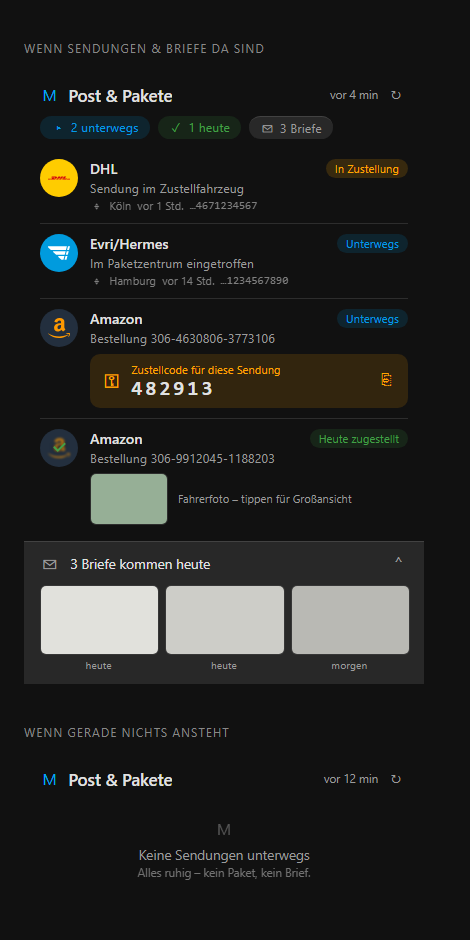
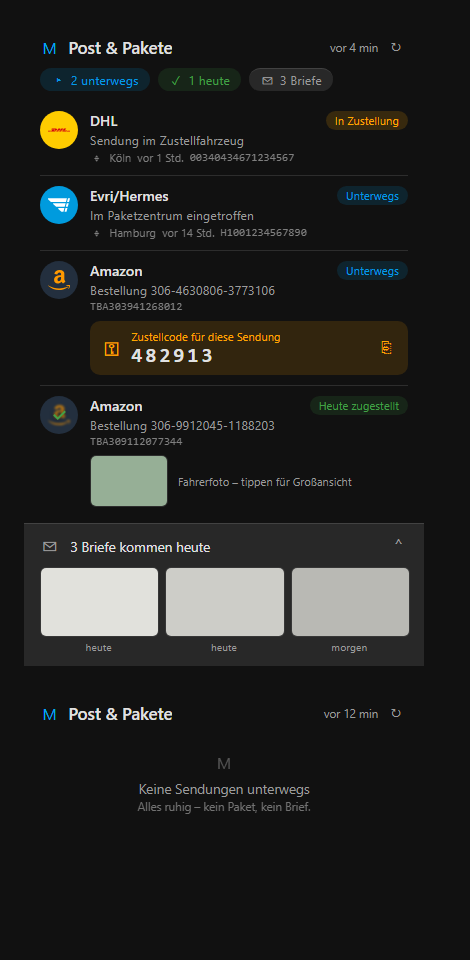
feat: full tracking numbers + Amazon TBA numbers on order rows
- carrier rows show the complete tracking number instead of a truncated
  tail (meta line wraps when needed)
- Amazon rows (in transit and delivered) show the TBA tracking number
  from the integration's new order->tracking attribute map
- README preview image refreshed, harness state labels removed

diff --git a/dist/Home-Assistant-Mail-And-Packages-Custom-Card.js b/dist/Home-Assistant-Mail-And-Packages-Custom-Card.js
@@ -325,6 +325,10 @@ class MailAndPackagesCard extends LitElement {
     const otp = this._st(ents.otp);
     const otpDetails = (otp && otp.attributes.details) || [];
     const otpCodes = (otp && otp.attributes.code) || [];
+    const trackingMap = {
+      ...((deliveredState && deliveredState.attributes.tracking) || {}),
+      ...((amazon && amazon.attributes.tracking) || {}),
+    };
     let orders = (amazon && amazon.attributes.order) || [];
     if (!Array.isArray(orders)) orders = [orders].filter(Boolean);
     const matchedCodes = new Set();
@@ -341,7 +345,7 @@ class MailAndPackagesCard extends LitElement {
         event: `${t.order} ${order}`,
         location: "",
         time: "",
-        number: null,
+        number: trackingMap[order] || null,
         url: order ? orderUrl(order) : meta.url(),
         code: match ? match.code : null,
       });
@@ -376,7 +380,7 @@ class MailAndPackagesCard extends LitElement {
               : `${deliveredCount}×`,
           location: "",
           time: "",
-          number: null,
+          number: order ? trackingMap[order] || null : null,
           url: order ? orderUrl(order) : meta.url(),
           photo: i === 0 ? photo : null,
           photoEntity: ents.amazon_camera,
@@ -542,7 +546,7 @@ class MailAndPackagesCard extends LitElement {
             ? html`<div class="row-meta">
                 ${r.location ? html`<ha-icon icon="mdi:map-marker-outline"></ha-icon><span>${r.location}</span>` : ""}
                 ${r.time ? html`<span>${r.time}</span>` : ""}
-                ${r.number ? html`<span class="mono">…${String(r.number).slice(-10)}</span>` : ""}
+                ${r.number ? html`<span class="mono">${r.number}</span>` : ""}
               </div>`
             : ""}
           ${r.code
@@ -846,8 +850,9 @@ class MailAndPackagesCard extends LitElement {
       }
       .row-meta {
         display: flex;
+        flex-wrap: wrap;
         align-items: center;
-        gap: 6px;
+        gap: 3px 6px;
         font-size: 0.7em;
         color: var(--secondary-text-color);
         opacity: 0.8;
